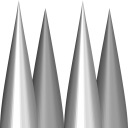
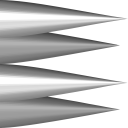
Touch obstacles => Game Over

diff --git a/index.html b/index.html
@@ -110,6 +110,14 @@
         return tLava1;
     };
 
+    function checkLava1(){
+        if (ball.collidesWith(lava1)){
+            alert('Oops, you lost! Try again.');
+            game.stop();
+            document.location.href = ""; // restart game
+        }
+    }
+
     Lava2 = function(){
         tLava2 = new Sprite(game, "img/lava.png", 50, 50);
         tLava2.setSpeed(0);
@@ -122,6 +130,14 @@
 
         return tLava2;
     };
+
+    function checkLava2(){
+        if (ball.collidesWith(lava2)){
+            alert('Oops, you lost! Try again.');
+            game.stop();
+            document.location.href = ""; // restart game
+        }
+    }
 
     Lava3 = function(){
         tLava3 = new Sprite(game, "img/lava.png", 50, 50);
@@ -136,6 +152,14 @@
         return tLava3;
     };
 
+    function checkLava3(){
+        if (ball.collidesWith(lava3)){
+            alert('Oops, you lost! Try again.');
+            game.stop();
+            document.location.href = ""; // restart game
+        }
+    }
+
     Lava4 = function(){
         tLava4 = new Sprite(game, "img/lava.png", 50, 50);
         tLava4.setSpeed(0);
@@ -148,6 +172,56 @@
 
         return tLava4;
     };
+
+    function checkLava4(){
+        if (ball.collidesWith(lava4)){
+            alert('Oops, you lost! Try again.');
+            game.stop();
+            document.location.href = ""; // restart game
+        }
+    }
+
+    Spike1 = function(){
+        tSpike1 = new Sprite(game, "img/spikes_top.png", 60, 60);
+        tSpike1.setSpeed(0);
+
+        tSpike1.reset = function(){
+            this.setPosition(500, 30);
+        };
+
+        tSpike1.reset();
+
+        return tSpike1;
+    };
+
+    function checkSpike1(){
+        if (ball.collidesWith(spike1)){
+            alert('Oops, you lost! Try again.');
+            game.stop();
+            document.location.href = ""; // restart game
+        }
+    }
+
+    Spike2 = function(){
+        tSpike2 = new Sprite(game, "img/spikes.png", 60, 60);
+        tSpike2.setSpeed(0);
+
+        tSpike2.reset = function(){
+            this.setPosition(30, 500);
+        };
+
+        tSpike2.reset();
+
+        return tSpike2;
+    };
+
+    function checkSpike2(){
+        if (ball.collidesWith(spike2)){
+            alert('Oops, you lost! Try again.');
+            game.stop();
+            document.location.href = ""; // restart game
+        }
+    }
 
     Wall1 = function(){
         tWall1 = new Sprite(game, "img/brick.png", 40, 200);
@@ -242,6 +316,8 @@
         lava2 = new Lava2();
         lava3 = new Lava3();
         lava4 = new Lava4();
+        spike1 = new Spike1();
+        spike2 = new Spike2();
         accel = new Accel();
         
         game.start();
@@ -264,10 +340,18 @@
         wall4.update();
         wall5.update();
         wall6.update();
+        checkLava1();
         lava1.update();
+        checkLava2();
         lava2.update();
+        checkLava3();
         lava3.update();
+        checkLava4();
         lava4.update();
+        checkSpike1();
+        spike1.update();
+        checkSpike2();
+        spike2.update();
         ball.update();
     } // end update
     
